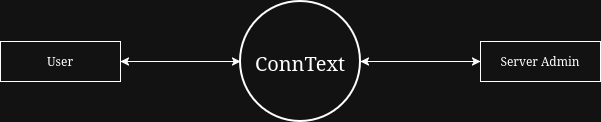
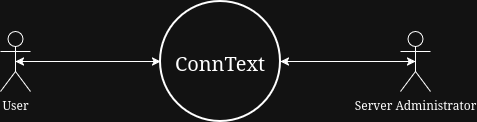
Correct System Context Diagram entities
- Use actor component instead of box for entities

diff --git a/README.md b/README.md
@@ -32,7 +32,7 @@ The documentation was created in a specific order to help developers and users u
 > Note that a text version of the Feature Tree diagram is available at [Planning/FeatureTreeText](Planning/FeatureTreeText.txt).
 
 # Design
-1. Architecture (Reduced C4 Model)
+1. Architecture
     - [Architecture Notes](Design/Architecture/ArchitectureNotes.md)
     - [System Context Diagram](Design/Architecture/Images/SystemContextDiagram.png)
 2. Wireframes